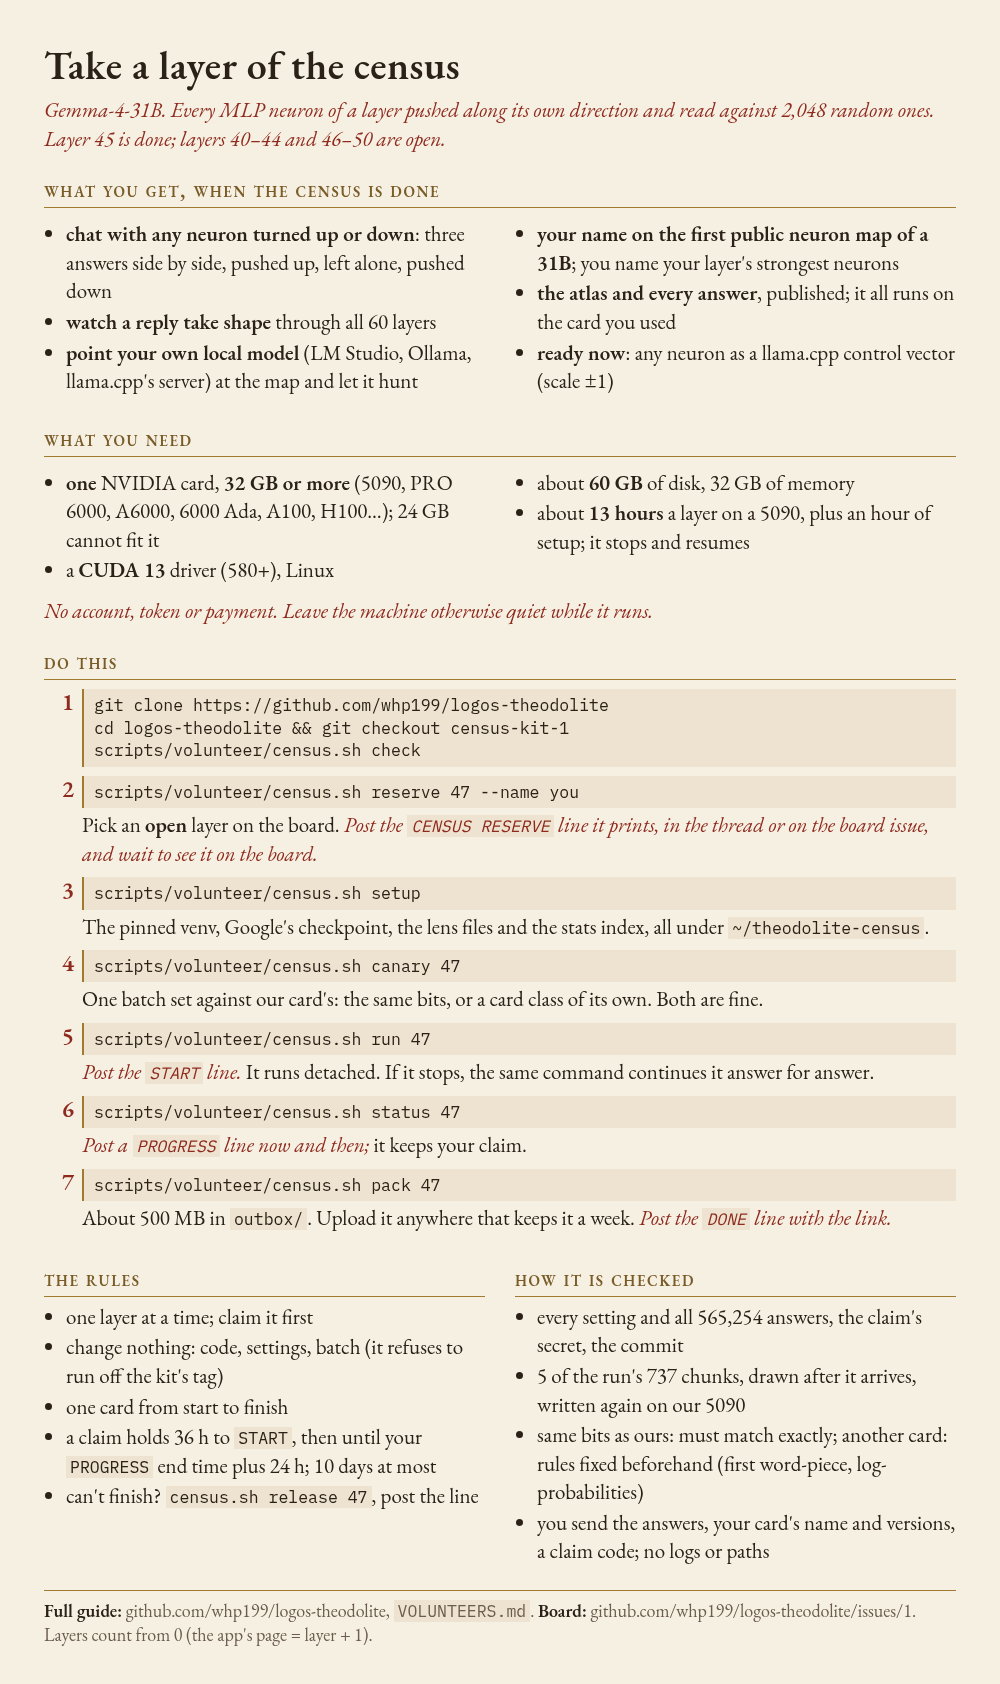
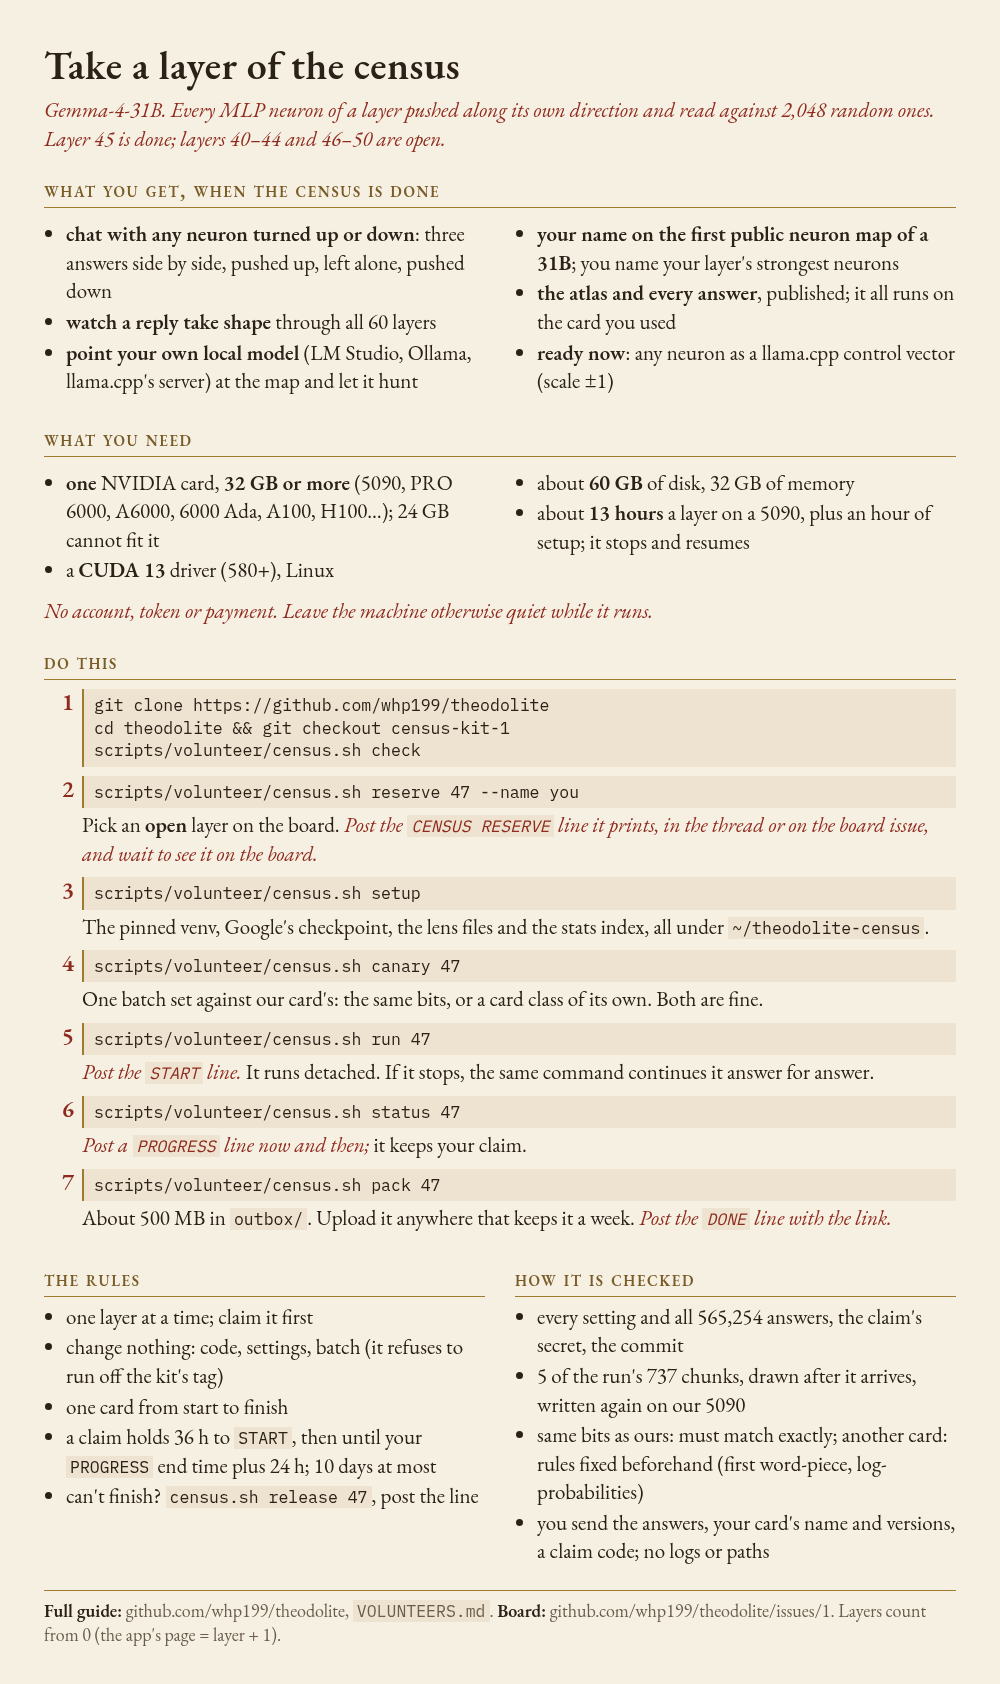
The repository is whp199/theodolite now: the guide, the board, the post texts and the scientist's referer point there
GitHub redirects the old address (the clone, the release's stats index, the board issue), so the kit's tag and
volunteers/kit.env keep the address they were cut with: kit.env's values are the kit, and its URLs are only fetched
with curl -fL or shown. The board's text now gives the board issue's own address, from board.json, rather than
kit.env's. The guide names the old checkout folder too, for a clone made before the rename.

Changed region(s): [[0.062, 0.9572, 0.217, 0.9881], [0.248, 0.9572, 0.372, 0.9881], [0.465, 0.4014, 0.558, 0.4323]]

diff --git a/volunteers/post/guide.html b/volunteers/post/guide.html
@@ -62,8 +62,8 @@ ones. Layer 45 is done; layers 40–44 and 46–50 are open.</p>
 
 <h2>do this</h2>
 <ol class="steps">
-<li><div><pre>git clone https://github.com/whp199/logos-theodolite
-cd logos-theodolite &amp;&amp; git checkout census-kit-1
+<li><div><pre>git clone https://github.com/whp199/theodolite
+cd theodolite &amp;&amp; git checkout census-kit-1
 scripts/volunteer/census.sh check</pre></div></li>
 <li><div><pre>scripts/volunteer/census.sh reserve 47 --name you</pre>
 <p class="say">Pick an <b>open</b> layer on the board. <span class="rub">Post the <code>CENSUS RESERVE</code> line it prints, in the
@@ -104,6 +104,6 @@ continues it answer for answer.</p></div></li>
 </div>
 </div>
 
-<p class="foot"><b>Full guide:</b> github.com/whp199/logos-theodolite, <code>VOLUNTEERS.md</code>. <b>Board:</b>
-github.com/whp199/logos-theodolite/issues/1. Layers count from 0 (the app's page = layer + 1).</p>
+<p class="foot"><b>Full guide:</b> github.com/whp199/theodolite, <code>VOLUNTEERS.md</code>. <b>Board:</b>
+github.com/whp199/theodolite/issues/1. Layers count from 0 (the app's page = layer + 1).</p>
 </body></html>

diff --git a/scripts/census_board.py b/scripts/census_board.py
@@ -82,7 +82,7 @@ def load(path: Path) -> Dict[str, Any]:
     if path.exists():
         return json.loads(path.read_text(encoding="utf-8"))
     kit = cv.read_kit()
-    return {"kit": kit["KIT"], "repo": "whp199/logos-theodolite", "issue": None, "seen_comments": [], "claims": [],
+    return {"kit": kit["KIT"], "repo": "whp199/theodolite", "issue": None, "seen_comments": [], "claims": [],
             "layers": {str(l): {"state": "open"} for l in kit["layers"]}}
 
 
@@ -250,7 +250,9 @@ def render_txt(board: Dict[str, Any]) -> str:
         bits = [f"L{r['layer']}", s] + [x for x in (r["who"], r["card"], r["when"]) if x]
         out.append(" ".join(bits) if r["state"] != "done" else f"L{r['layer']} done ({r['who']})")
     n_open = sum(1 for r in rows if r["state"] == "open")
-    out += ["", f"{n_open} open. To take one: {kit['KIT_BOARD_URL'].rstrip('/')}",
+    # the board's own address, not kit.env's: the kit's tag keeps the address it was cut with (GitHub redirects it)
+    url = f"https://github.com/{board['repo']}/issues/{board['issue']}" if board.get("issue") else kit["KIT_BOARD_URL"].rstrip("/")
+    out += ["", f"{n_open} open. To take one: {url}",
             f"guide: https://github.com/{board['repo']}/blob/main/VOLUNTEERS.md",
             "reply with the CENSUS line census.sh prints"]
     text = "\n".join(out)

diff --git a/backend/scientist_chat.py b/backend/scientist_chat.py
@@ -271,7 +271,7 @@ PROFILES: Dict[str, Dict[str, Any]] = {
     "lmstudio": {"label": "LM Studio (this machine)", "base_url": "http://127.0.0.1:1234/v1", "url_env": "THEODOLITE_LMSTUDIO_URL"},
     "ollama": {"label": "Ollama (this machine)", "base_url": "http://127.0.0.1:11434/v1", "url_env": "THEODOLITE_OLLAMA_URL"},
     "openrouter": {"label": "OpenRouter", "base_url": "https://openrouter.ai/api/v1", "key_env": "OPENROUTER_API_KEY",
-                   "headers": {"X-Title": "Theodolite", "HTTP-Referer": "https://github.com/whp199/logos-theodolite"}},
+                   "headers": {"X-Title": "Theodolite", "HTTP-Referer": "https://github.com/whp199/theodolite"}},
 }
 ENV_NAME = re.compile(r"^[A-Za-z_][A-Za-z0-9_]*$")
 _profile_warning: Optional[str] = None

diff --git a/scripts/check_volunteer_kit.py b/scripts/check_volunteer_kit.py
@@ -146,7 +146,7 @@ def run_checks(tmp: Path) -> int:
     # 3. the board
     before = len(failures)
     board = tmp / "board.json"
-    board.write_text(json.dumps({"kit": kit["KIT"], "repo": "whp199/logos-theodolite", "issue": None, "seen_comments": [], "claims": [],
+    board.write_text(json.dumps({"kit": kit["KIT"], "repo": "whp199/theodolite", "issue": None, "seen_comments": [], "claims": [],
                                  "layers": {str(l): {"state": "open"} for l in kit["layers"]}}))
     b = [PY, "-I", BOARD_PY, "--board", board]
     benv = {**env, "THEODOLITE_BOARD_NOW": "1793390400"}  # 2026-10-30T20:00Z

diff --git a/VOLUNTEERS.md b/VOLUNTEERS.md
@@ -10,7 +10,7 @@ Ten layers are left: **40, 41, 42, 43, 44, 46, 47, 48, 49 and 50**. These are th
 been calibrated. If you have a big enough card and a free night, you can take one. Layers count from 0, as every script
 counts them (the app's page = layer + 1).
 
-**The board** shows which layer is whose: the pinned *Census layer board* issue, <https://github.com/whp199/logos-theodolite/issues/1>.
+**The board** shows which layer is whose: the pinned *Census layer board* issue, <https://github.com/whp199/theodolite/issues/1>.
 
 ## What you get
 
@@ -54,7 +54,7 @@ No account, token or payment is needed anywhere.
 
 ```bash
 mkdir -p ~/theodolite-census && cd ~/theodolite-census
-git clone https://github.com/whp199/logos-theodolite.git && cd logos-theodolite
+git clone https://github.com/whp199/theodolite.git && cd theodolite
 git checkout census-kit-1
 scripts/volunteer/census.sh check                      # can this machine take a layer?
 ```
@@ -241,9 +241,10 @@ llama-server -m gemma-4-31B-it-QAT-Q4_0.gguf --control-vector-scaled theodolite-
   - With the kit set up, run `. ~/theodolite-census/env.sh` first: it finds the checkpoint and the stats index you
     already have. The script is not in the kit's tag, and `census.sh` runs only from a clean checkout at it, so use
     a second checkout: `git fetch origin && git worktree add --detach ~/theodolite-census/export origin/main`, and
-    run the kit's Python (`~/theodolite-census/logos-theodolite/.venv/bin/python`) from there.
+    run the kit's Python (`~/theodolite-census/theodolite/.venv/bin/python`, or `logos-theodolite/` in a checkout
+    cloned before the repository was renamed) from there.
   - Without the kit: add `--gguf` with your own GGUF of Gemma-4-31B-it and `--stats` with the kit's stats index
-    (`https://github.com/whp199/logos-theodolite/releases/download/census-kit-1/act_scale.npz`, sha256
+    (`https://github.com/whp199/theodolite/releases/download/census-kit-1/act_scale.npz`, sha256
[1 lines of base64/hex data omitted]
     CPU build is enough) and gguf. The direction is then your file's own, a little off the census's: cosine 0.997 for
     the QAT Q4_0 file, 0.977 at worst for the Q4_K files we tried.

diff --git a/volunteers/BOARD.md b/volunteers/BOARD.md
@@ -1,6 +1,6 @@
 # The census: which layer is whose
 
-Kit 1 (census-kit-1). How to take a layer: [VOLUNTEERS.md](https://github.com/whp199/logos-theodolite/blob/main/VOLUNTEERS.md). Post `CENSUS ...` lines as comments here or in the thread; the board is updated by hand, so give it a little while. Layers count from 0 (page = layer + 1).
+Kit 1 (census-kit-1). How to take a layer: [VOLUNTEERS.md](https://github.com/whp199/theodolite/blob/main/VOLUNTEERS.md). Post `CENSUS ...` lines as comments here or in the thread; the board is updated by hand, so give it a little while. Layers count from 0 (page = layer + 1).
 
 | Layer | Page | State | Who | Card | When | Note |
 |---:|---:|---|---|---|---|---|
@@ -20,4 +20,4 @@ Judged:
 
 - L47 ReimusArmpit 2f018a18: accepted (30-31 Oct 2026, its own card class, spot-checked passed layer 45s gates)
 
-Holds: 36 h after RESERVE to START; then the run's end time (from PROGRESS) plus 24 h; at most 10 days in all. Updated 2026-11-01T13:48Z.
+Holds: 36 h after RESERVE to START; then the run's end time (from PROGRESS) plus 24 h; at most 10 days in all. Updated 2026-11-01T18:10Z.
